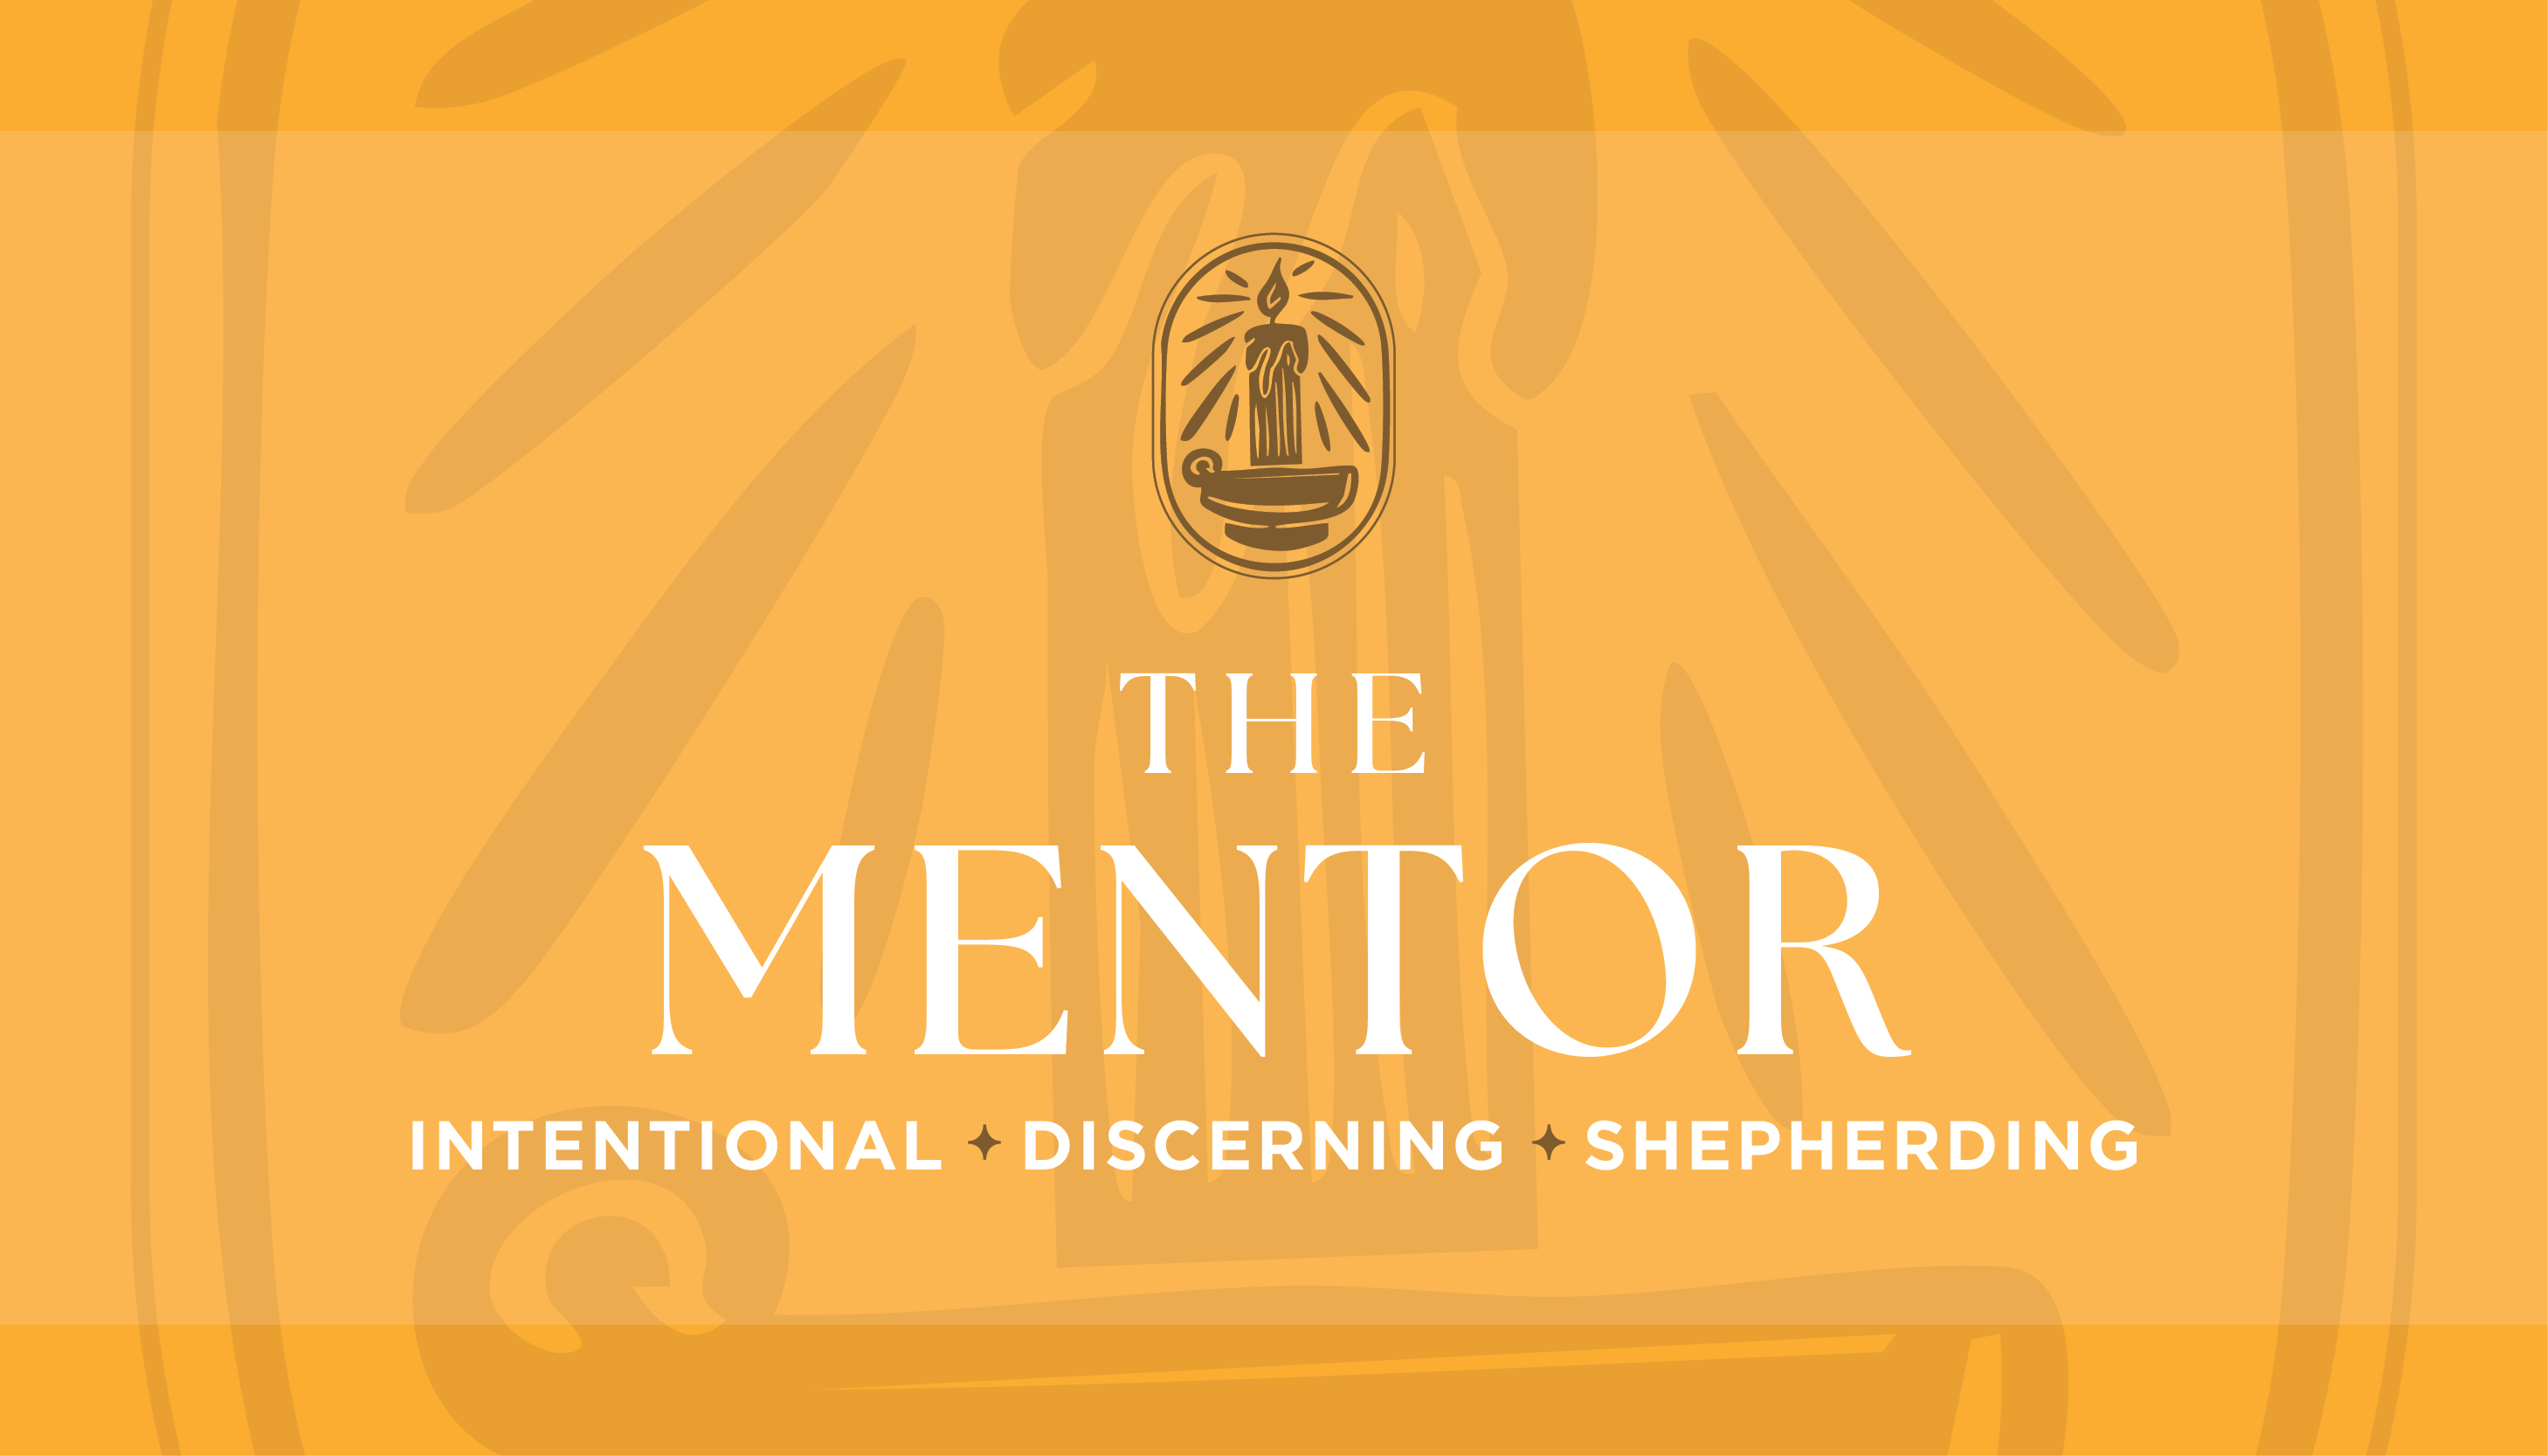
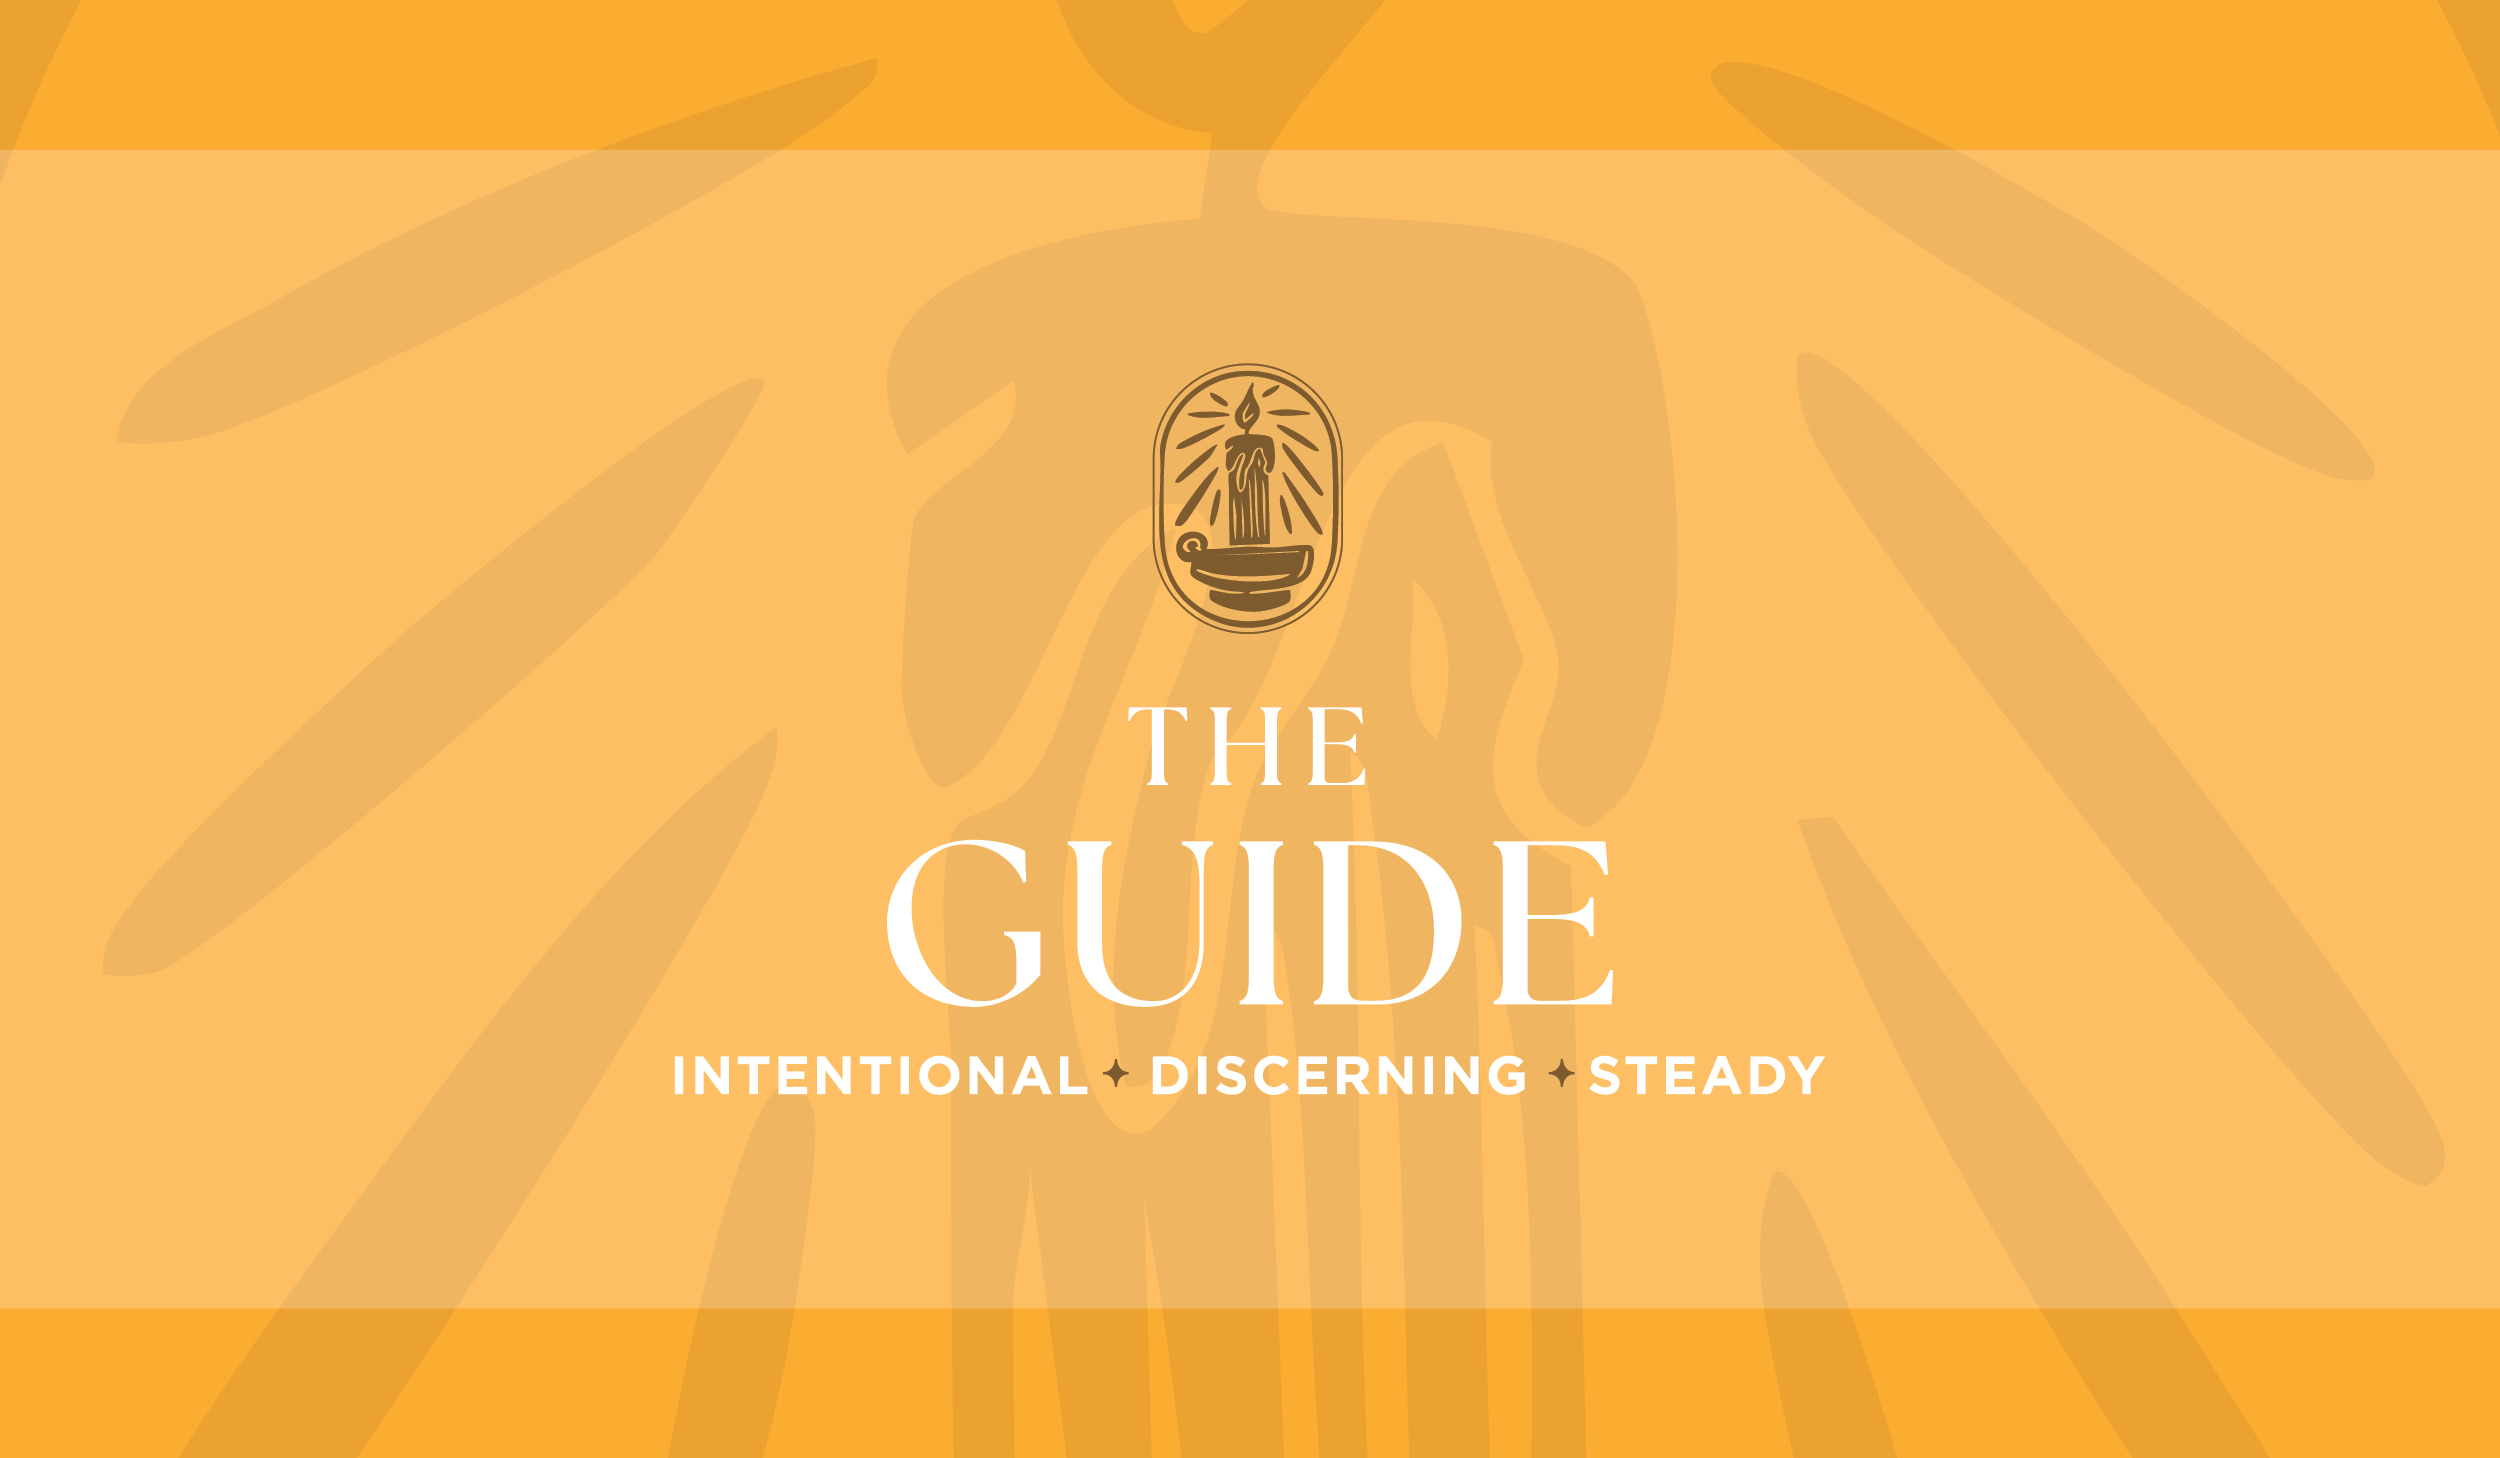
Update Guide result card + descriptors
- result-mentor.jpg: new designer graphic with "THE GUIDE" branding
- Descriptors updated: Nurturing/Wise/Intentional → Intentional/Discerning/Steady
- Share title and Worker source updated to match

diff --git a/worker/src/index.js b/worker/src/index.js
@@ -26,7 +26,7 @@ const PROFILES = {
     image: "https://quiz.sendrelief.org/result-visionary.jpg",
   },
   mentor: {
-    title: "I'm a Guide — Nurturing, Wise, Intentional",
+    title: "I'm a Guide — Intentional, Discerning, Steady",
     image: "https://quiz.sendrelief.org/result-mentor.jpg",
   },
 };
@@ -91,12 +91,37 @@ class TitleRewriter {
 
 async function fetchOrigin(url, request) {
   // Build a request to the GitHub Pages origin
-  const originUrl = "https://nambnet.github.io/compassion-quiz" + url.pathname;
-  return fetch(originUrl, {
+  // GitHub Pages redirects sub-paths to the CNAME domain, which loops back
+  // to this worker. Use redirect: "manual" and retry with .html extension.
+  let pathname = url.pathname;
+  const fetchOpts = {
     method: request.method,
+    redirect: "manual",
     headers: {
       "User-Agent": request.headers.get("User-Agent") || "Mozilla/5.0",
       "Accept": request.headers.get("Accept") || "text/html",
     },
-  });
+  };
+
+  const originBase = "https://nambnet.github.io/compassion-quiz";
+  let response = await fetch(originBase + pathname, fetchOpts);
+
+  // If GitHub Pages returns a redirect (CNAME), try with .html extension
+  if (response.status >= 300 && response.status < 400 && pathname !== "/" && !pathname.includes(".")) {
+    response = await fetch(originBase + pathname + ".html", fetchOpts);
+  }
+
+  // If still a redirect (e.g. CNAME redirect on the .html path), fetch the Location directly
+  if (response.status >= 300 && response.status < 400) {
+    const location = response.headers.get("Location");
+    if (location) {
+      // Rewrite CNAME redirects back to the origin to avoid loops
+      const redirectUrl = new URL(location);
+      if (redirectUrl.hostname === "quiz.sendrelief.org") {
+        response = await fetch(originBase + redirectUrl.pathname, fetchOpts);
+      }
+    }
+  }
+
+  return response;
 }

diff --git a/index.html b/index.html
@@ -1223,7 +1223,7 @@ body.dark .header-label-result img {
       <hr>
       <div class="share-section">
         <h3>Share your results</h3>
-        <div class="share-buttons" data-profile="mentor" data-title="I'm a Guide — Nurturing, Wise, Intentional"></div>
+        <div class="share-buttons" data-profile="mentor" data-title="I'm a Guide — Intentional, Discerning, Steady"></div>
       </div>
     </div>
   </div>